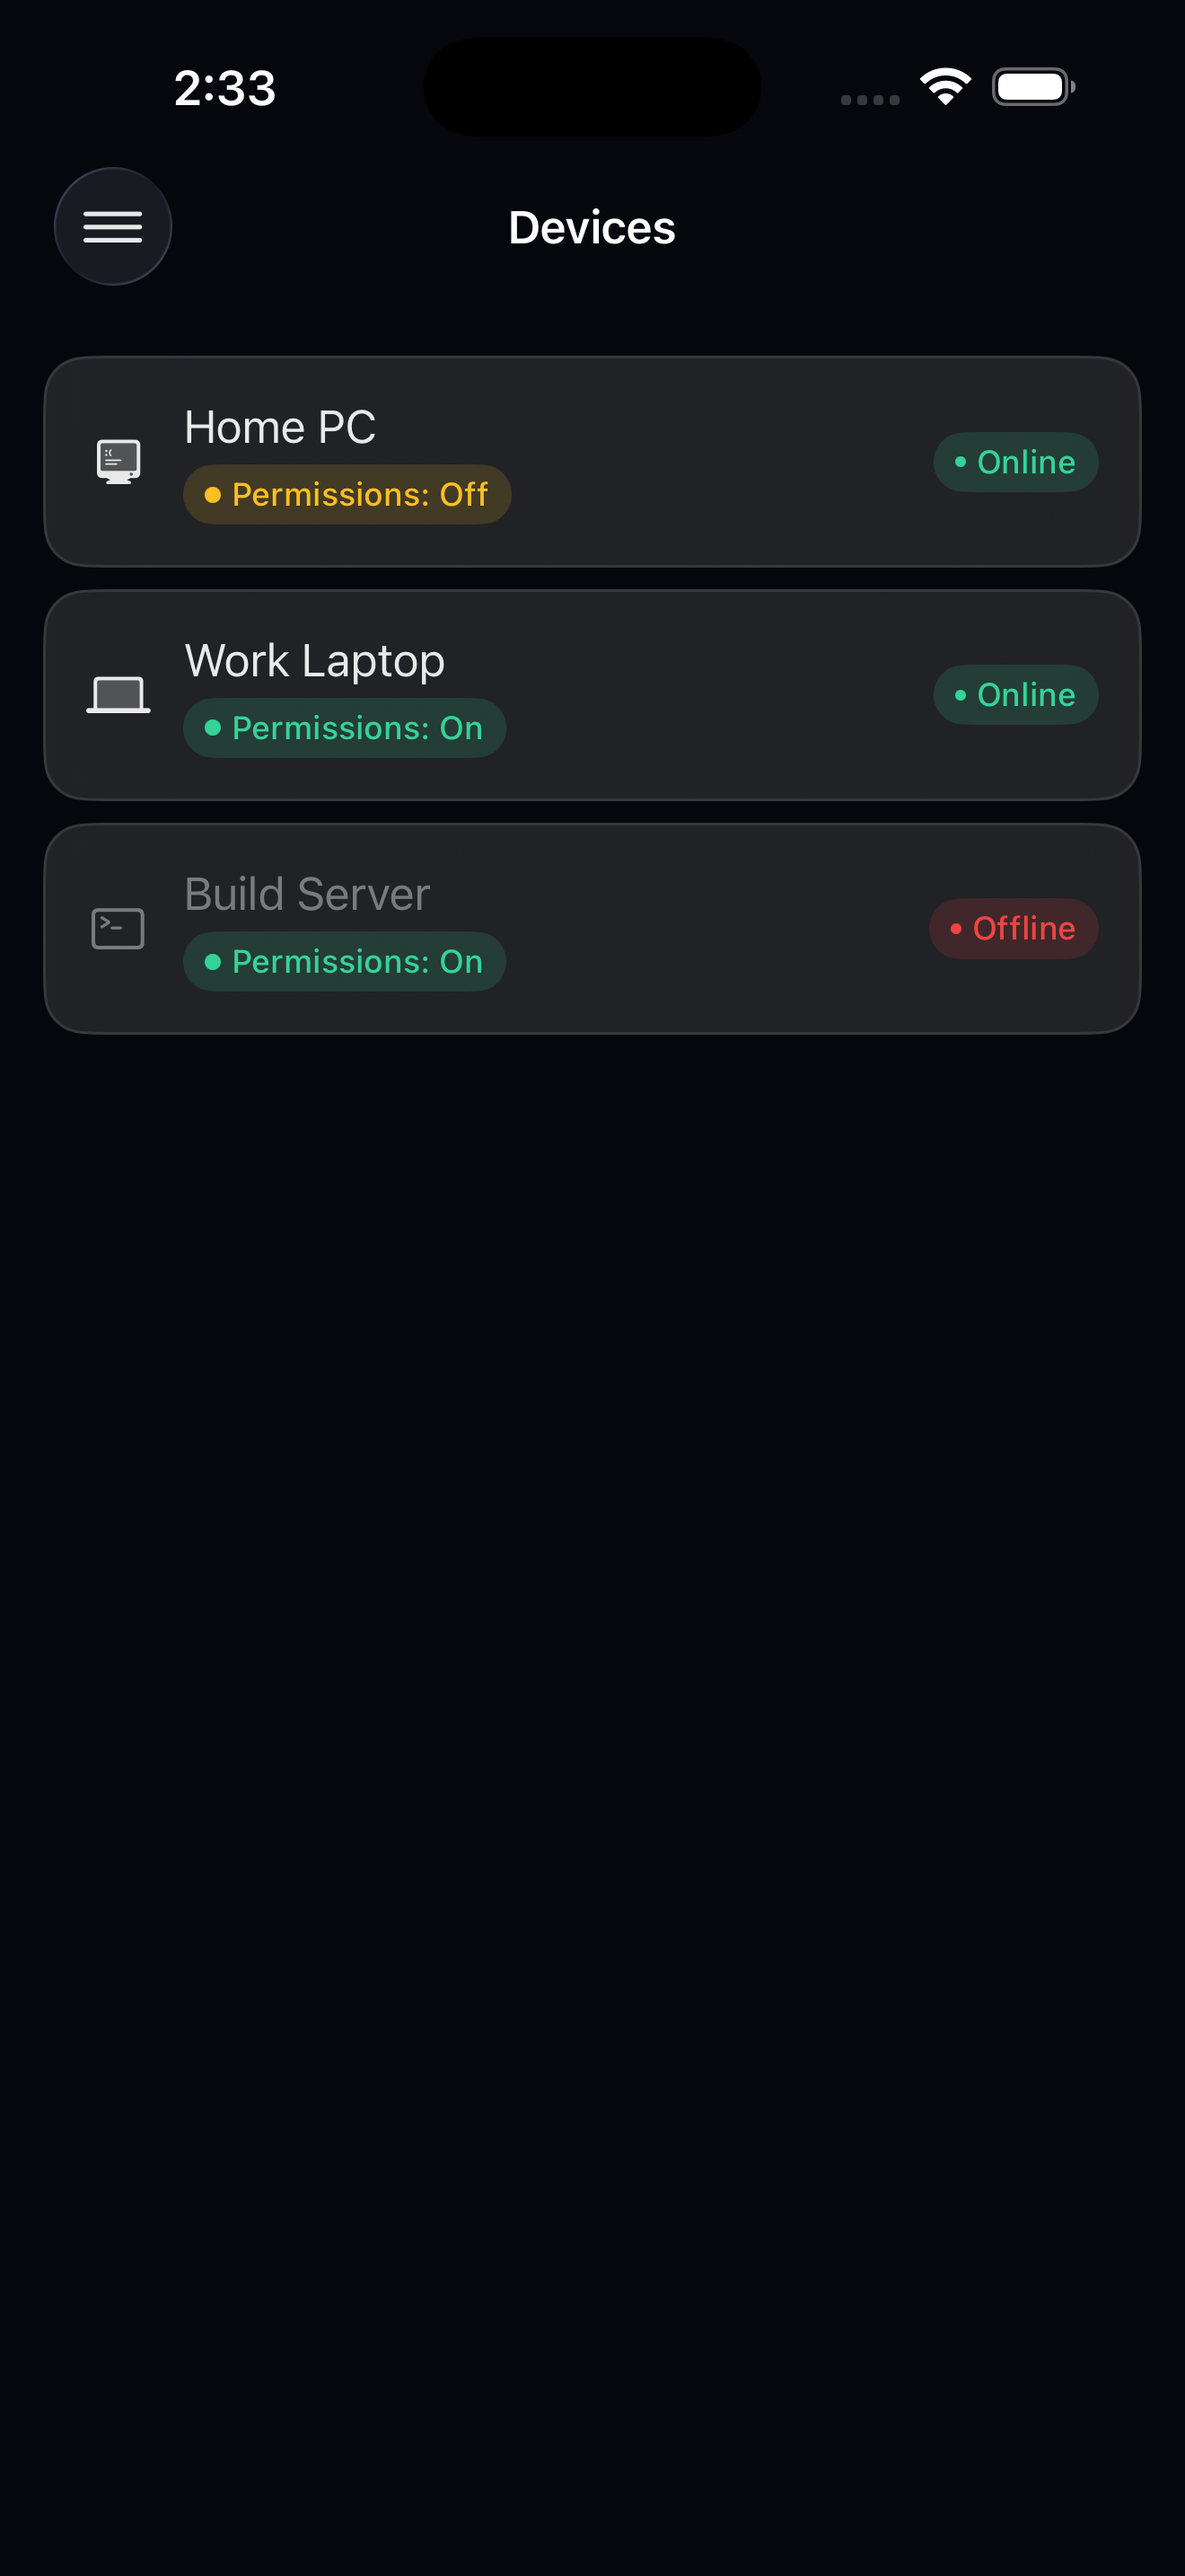
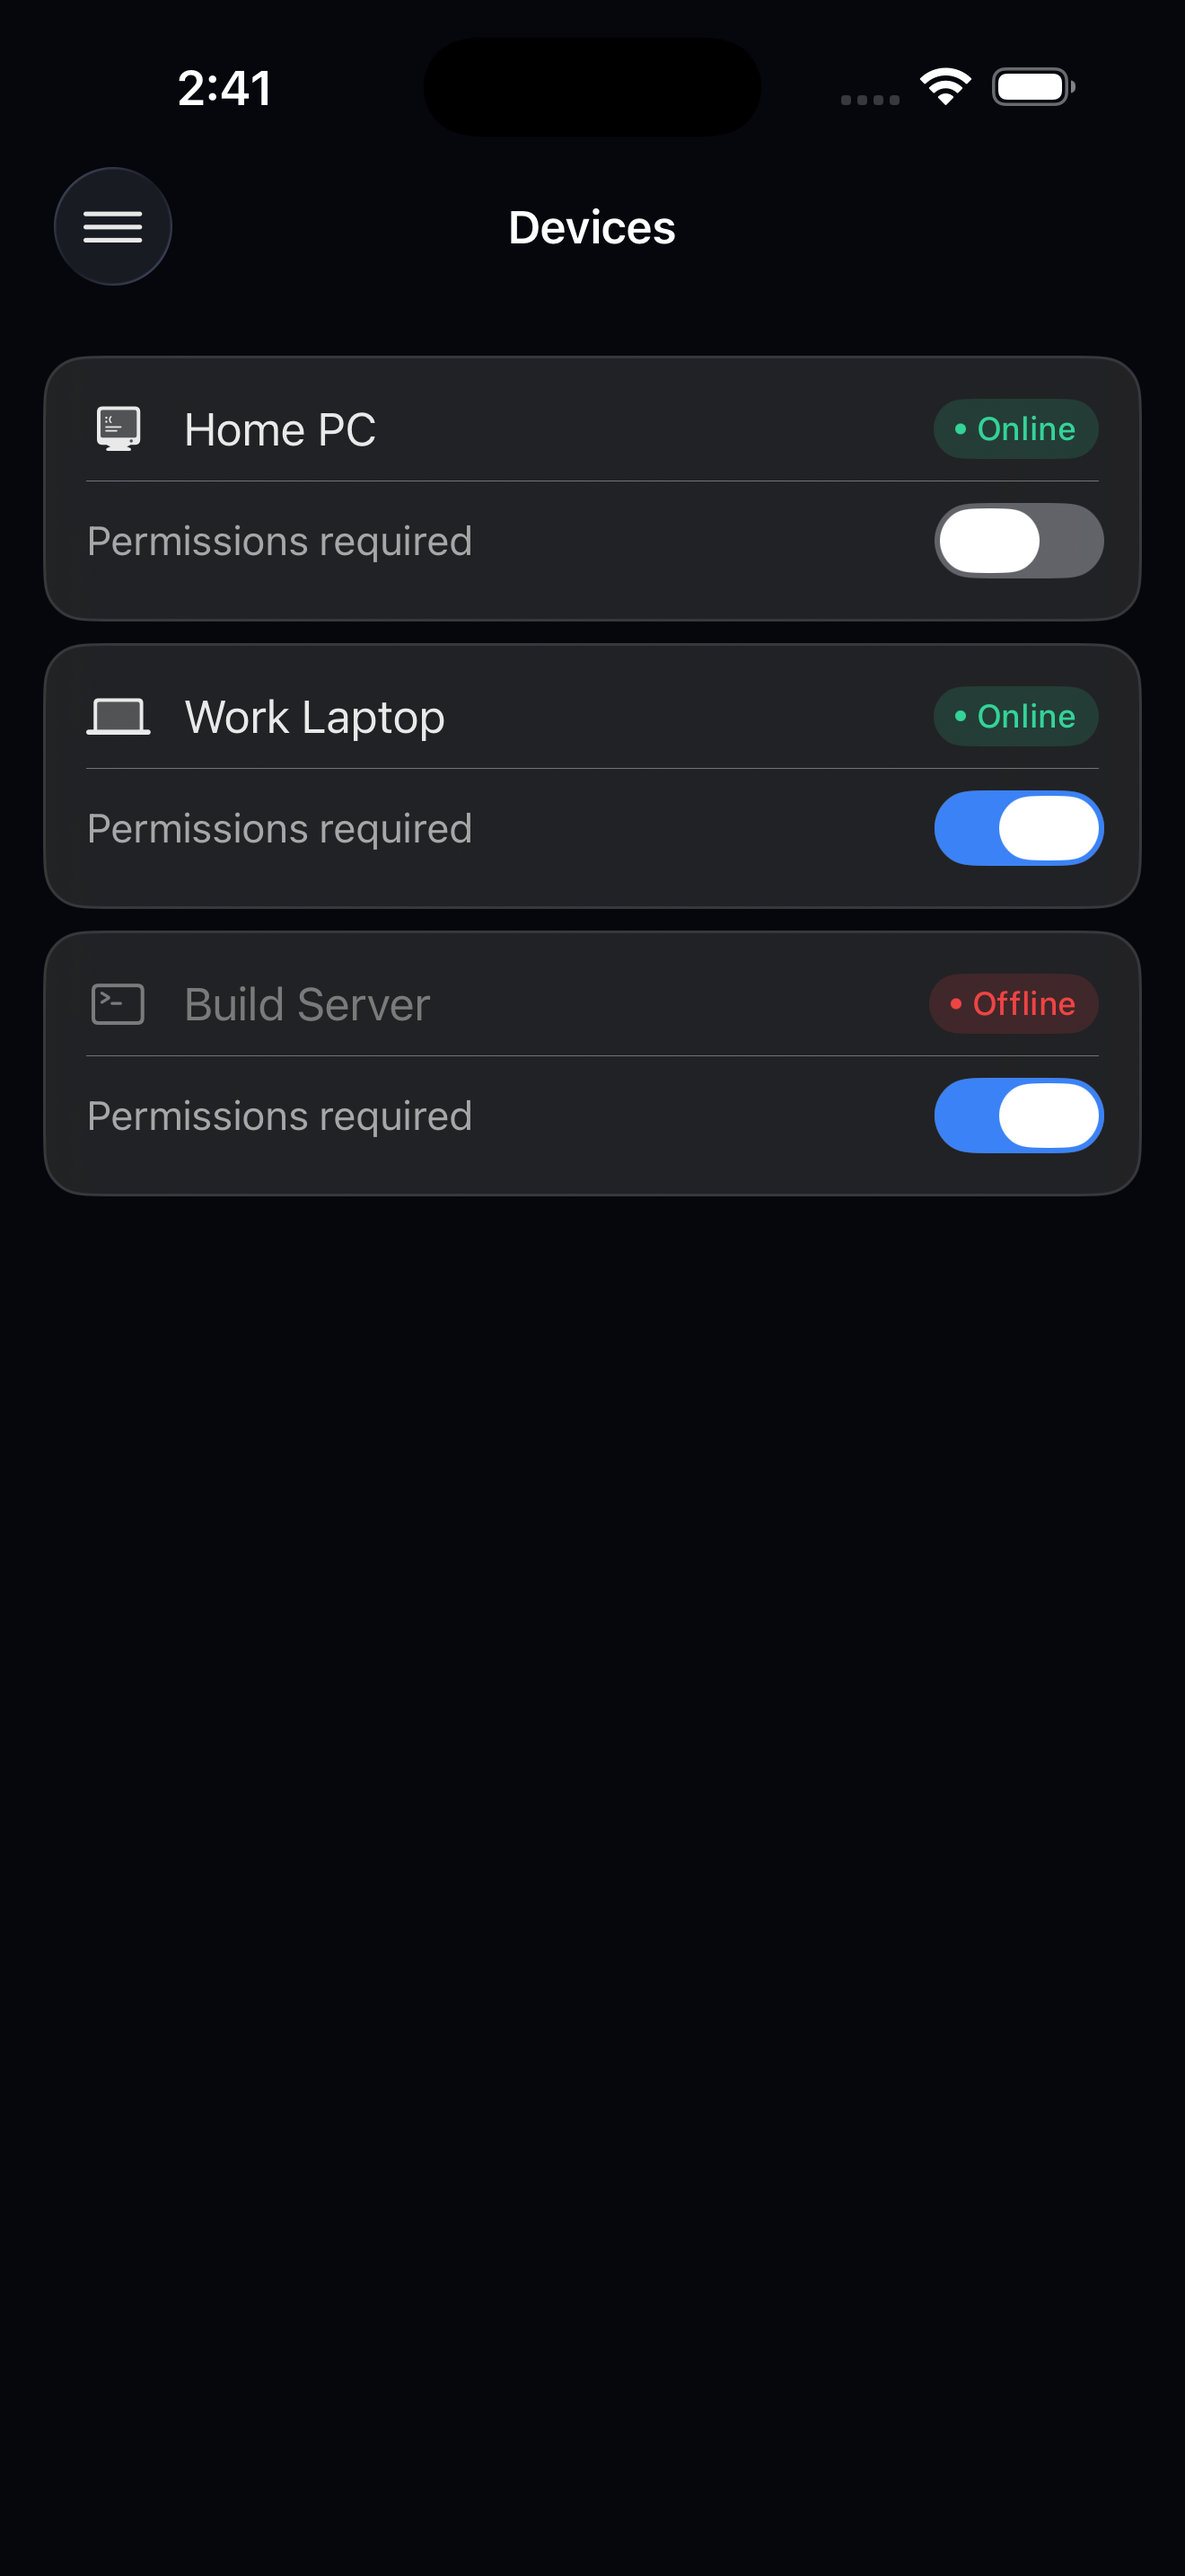
fix(devices): use a native Toggle for the permissions switch
Replaced the custom tappable pill (a Button styled to look like a
colored badge, mimicking the real web client's own custom control)
with a native SwiftUI Toggle — the correct iOS-native equivalent of
an on/off switch, not a literal pixel match of web's pill.

Restructured DeviceRow to two lines per card: name/status on top,
divider, then a full-width "Permissions required" Toggle below —
a native switch reads better as its own row than squeezed next to
the device name.

Claude-Session: https://claude.ai/code/session_01PDgCH3DMhqM5ZzdKDDgsvg

Changed region(s): [[0.0311, 0.1552, 0.9629, 0.4655], [0.1864, 0.031, 0.2174, 0.0621]]

diff --git a/TIAGA/TIAGA/Presentation/Views/Devices/DevicesView.swift b/TIAGA/TIAGA/Presentation/Views/Devices/DevicesView.swift
@@ -6,9 +6,10 @@
 import SwiftUI
 
 /// The operator's fleet: one row per device — OS icon, name, online/offline
-/// status, and a tappable pill to switch approval-gating on/off for
-/// sensitive tools (matching the real web client's `permissions on`/`auto`
-/// pill in `DevicesPane.tsx`, worded here as "Permissions: On"/"Off").
+/// status, and a native switch for whether sensitive tools on that device
+/// require approval (the real web client uses a custom tappable pill for
+/// this in `DevicesPane.tsx`; a native `Toggle` is the right iOS-native
+/// equivalent of the same control, not a literal pixel match).
 struct DevicesView: View {
     @StateObject private var viewModel = DevicesViewModel()
 
@@ -60,38 +61,32 @@ private struct DeviceRow: View {
 
     var body: some View {
         TIAGACard {
-            HStack(spacing: TIAGASpacing.md) {
-                Image(systemName: TIAGAIcon.forDeviceType(device.type))
-                    .foregroundStyle(device.isOnline ? TIAGAColor.textPrimary : TIAGAColor.textTertiary)
-                    .frame(width: 24)
+            VStack(spacing: TIAGASpacing.sm) {
+                HStack(spacing: TIAGASpacing.md) {
+                    Image(systemName: TIAGAIcon.forDeviceType(device.type))
+                        .foregroundStyle(device.isOnline ? TIAGAColor.textPrimary : TIAGAColor.textTertiary)
+                        .frame(width: 24)
 
-                VStack(alignment: .leading, spacing: TIAGASpacing.xs) {
                     Text(device.name)
                         .font(TIAGATypography.body)
                         .foregroundStyle(device.isOnline ? TIAGAColor.textPrimary : TIAGAColor.textTertiary)
 
-                    Button(action: onTogglePermissions) {
-                        HStack(spacing: TIAGASpacing.xs) {
-                            Circle()
-                                .fill(device.permissionsRequired ? TIAGAColor.statusSuccess : TIAGAColor.statusWarning)
-                                .frame(width: 6, height: 6)
-                            Text("Permissions: \(device.permissionsRequired ? "On" : "Off")")
-                                .font(TIAGATypography.caption)
-                                .foregroundStyle(device.permissionsRequired ? TIAGAColor.statusSuccess : TIAGAColor.statusWarning)
-                        }
-                        .padding(.horizontal, TIAGASpacing.sm)
-                        .padding(.vertical, TIAGASpacing.xs)
-                        .background(
-                            (device.permissionsRequired ? TIAGAColor.statusSuccess : TIAGAColor.statusWarning).opacity(0.15)
-                        )
-                        .clipShape(Capsule())
-                    }
-                    .buttonStyle(.plain)
+                    Spacer(minLength: TIAGASpacing.sm)
+
+                    StatusPill(isOnline: device.isOnline)
                 }
 
-                Spacer(minLength: TIAGASpacing.sm)
+                Divider().overlay(TIAGAColor.border)
 
-                StatusPill(isOnline: device.isOnline)
+                Toggle(isOn: Binding(
+                    get: { device.permissionsRequired },
+                    set: { _ in onTogglePermissions() }
+                )) {
+                    Text("Permissions required")
+                        .font(TIAGATypography.subheadline)
+                        .foregroundStyle(TIAGAColor.textSecondary)
+                }
+                .tint(TIAGAColor.brandAccent)
             }
         }
     }
